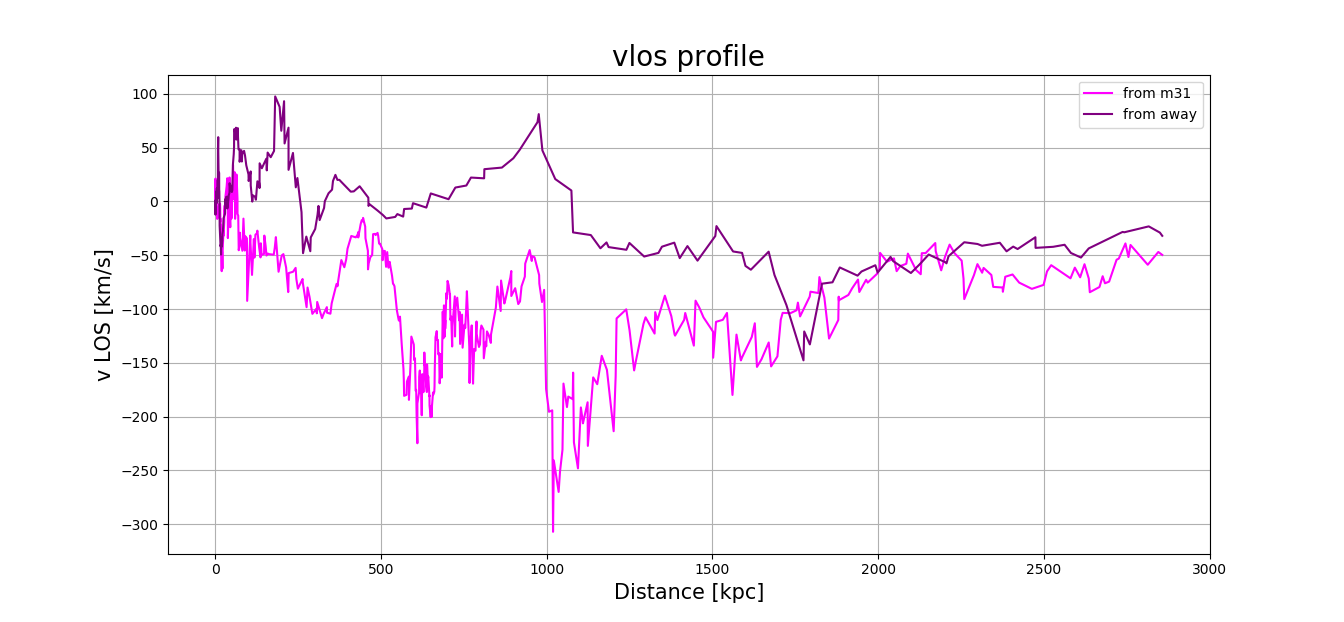
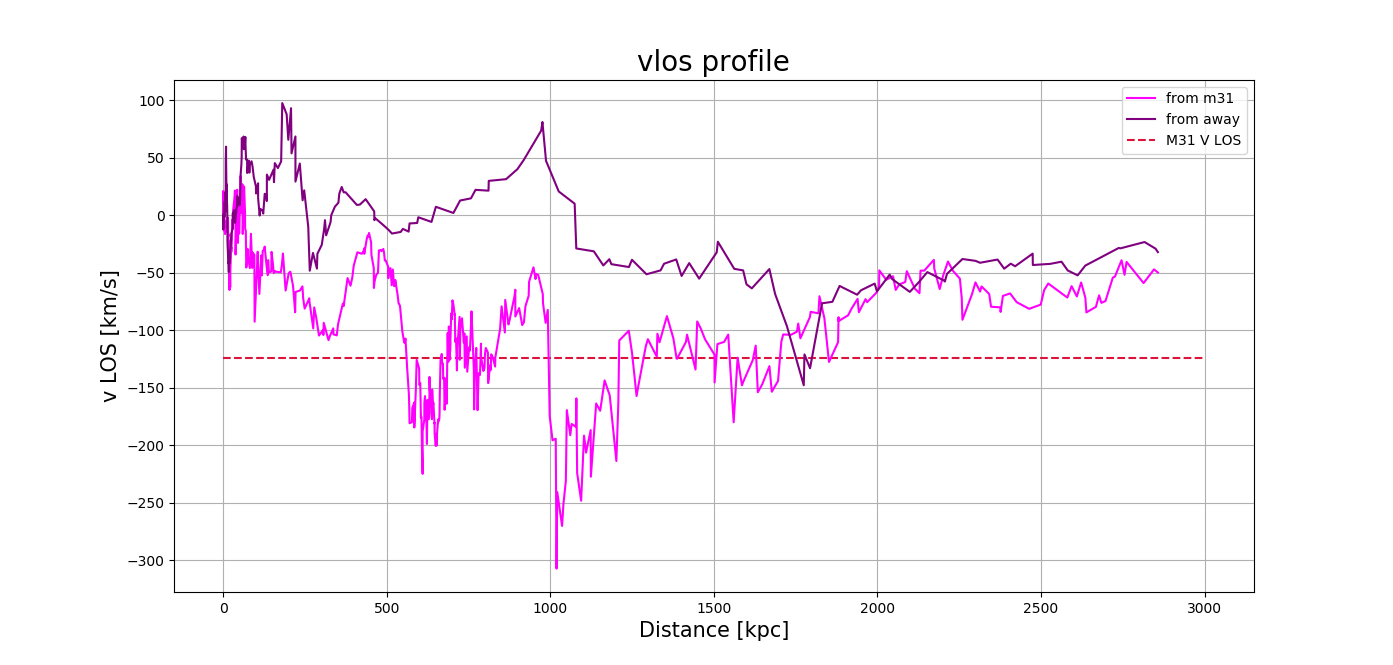
some files updates

diff --git a/yt_trident/ray_profiles_m31_and_away.py b/yt_trident/ray_profiles_m31_and_away.py
@@ -3,26 +3,33 @@ import matplotlib.pyplot as plt
 plt.ion()
 import pandas as pd
 import glob
-from tools import HUBBLE_2Mpc_LG, K_BOLTZMANN
+from numpy.linalg import norm
+from tools import HUBBLE_2Mpc_LG, K_BOLTZMANN, subhalo_center, subhalo_velocity, \
+                  get_sun_position_2Mpc_LG as sun
 from absorber_analysis import get_attribute_by_distance, get_ratio_by_distance
 
 
-ray_m31_filename = './rays_2Mpc_LG_to_mw_2000_wrt_mwcenter/ray_2000.000_0.698_4.115.h5'
-ray_away_filename = './rays_2Mpc_LG_to_mw_2000_wrt_mwcenter/ray_2000.000_1.036_1.314.h5'
+ray_m31_filename = './rays_2Mpc_LG_to_mw_2000_wrt_mwcenter_sun/ray_2000.000_0.698_4.115.h5'
+ray_away_filename = './rays_2Mpc_LG_to_mw_2000_wrt_mwcenter_sun/ray_2000.000_1.036_1.314.h5'
 
-abs_m31_filename = './absorbers_2Mpc_LG_to_mw_2000_wrt_mwcenter/abs_2000.000_0.698_4.115.txt'
-abs_away_filename = './absorbers_2Mpc_LG_to_mw_2000_wrt_mwcenter/abs_2000.000_1.036_1.314.txt'
+abs_m31_filename = './absorbers_2Mpc_LG_to_mw_2000_wrt_mwcenter_sun/abs_2000.000_0.698_4.115.txt'
+abs_away_filename = './absorbers_2Mpc_LG_to_mw_2000_wrt_mwcenter_sun/abs_2000.000_1.036_1.314.txt'
 
 df_m31 = pd.read_csv(abs_m31_filename, skiprows=1)
 df_away = pd.read_csv(abs_away_filename, skiprows=1)
 
+m31_direction = subhalo_center(0) - sun()
+m31_direction /= norm(m31_direction)
+
+# correcting for MW velocity
+m31_vlos = (subhalo_velocity(0) - subhalo_velocity(1)) @ (m31_direction)
 
 
 if __name__=='__main__':
 
     plt.figure()
-    r_m31, ratio_m31 = get_ratio_by_distance(df_m31, 'Si II 1260', 'Si III 1206')
-    r_away, ratio_away = get_ratio_by_distance(df_away, 'Si II 1260', 'Si III 1206')
+    r_m31, ratio_m31 = get_ratio_by_distance(df_m31, 'Si II 1193', 'Si III 1206')
+    r_away, ratio_away = get_ratio_by_distance(df_away, 'Si II 1193', 'Si III 1206')
     plt.semilogy(r_m31/HUBBLE_2Mpc_LG, ratio_m31, label = 'from m31')
     plt.semilogy(r_away/HUBBLE_2Mpc_LG, ratio_away, label = 'from away')
     plt.xlabel('Distance [kpc]', fontsize = 15)
@@ -33,8 +40,8 @@ if __name__=='__main__':
 
 
     plt.figure()
-    r_m31, T_m31 = get_attribute_by_distance(df_m31, 'C II 1036', 'T')
-    r_away, T_away = get_attribute_by_distance(df_away, 'C II 1036', 'T')
+    r_m31, T_m31 = get_attribute_by_distance(df_m31, df_m31['Line'].iloc[0], 'T')
+    r_away, T_away = get_attribute_by_distance(df_away, df_away['Line'].iloc[0], 'T')
     plt.semilogy(r_m31/HUBBLE_2Mpc_LG, T_m31, label = 'from m31', color = 'red')
     plt.semilogy(r_away/HUBBLE_2Mpc_LG, T_away, label = 'from away', color = 'crimson', ls = '--')
     plt.xlabel('Distance [kpc]', fontsize = 15)
@@ -44,8 +51,8 @@ if __name__=='__main__':
     plt.legend()
 
     plt.figure()
-    r_m31, p_m31 = get_attribute_by_distance(df_m31, 'C II 1036', 'p')
-    r_away, p_away = get_attribute_by_distance(df_away, 'C II 1036', 'p')
+    r_m31, p_m31 = get_attribute_by_distance(df_m31, df_m31['Line'].iloc[0], 'p')
+    r_away, p_away = get_attribute_by_distance(df_away, df_away['Line'].iloc[0], 'p')
     plt.semilogy(r_m31/HUBBLE_2Mpc_LG, p_m31/K_BOLTZMANN, label = 'from m31', color = 'blue')
     plt.semilogy(r_away/HUBBLE_2Mpc_LG, p_away/K_BOLTZMANN, label = 'from away', color = 'cyan')
     plt.xlabel('Distance [kpc]', fontsize = 15)
@@ -55,8 +62,8 @@ if __name__=='__main__':
     plt.legend()
 
     plt.figure()
-    r_m31, rho_m31 = get_attribute_by_distance(df_m31, 'C II 1036', 'rho')
-    r_away,rho_away = get_attribute_by_distance(df_away, 'C II 1036', 'rho')
+    r_m31, rho_m31 = get_attribute_by_distance(df_m31, df_m31['Line'].iloc[0], 'rho')
+    r_away,rho_away = get_attribute_by_distance(df_away, df_away['Line'].iloc[0], 'rho')
     plt.semilogy(r_m31/HUBBLE_2Mpc_LG, rho_m31, label = 'from m31', color = 'magenta')
     plt.semilogy(r_away/HUBBLE_2Mpc_LG, rho_away, label = 'from away', color = 'purple')
     plt.xlabel('Distance [kpc]', fontsize = 15)
@@ -71,6 +78,7 @@ if __name__=='__main__':
     r_away,vlos_away = get_attribute_by_distance(df_away, df_away['Line'].iloc[0], 'v_los')
     plt.plot(r_m31/HUBBLE_2Mpc_LG, vlos_m31, label = 'from m31', color = 'magenta')
     plt.plot(r_away/HUBBLE_2Mpc_LG, vlos_away, label = 'from away', color = 'purple')
+    plt.hlines(m31_vlos, 0, 3000, color = 'crimson', linestyles='dashed', label = 'M31 V LOS')
     plt.xlabel('Distance [kpc]', fontsize = 15)
     plt.ylabel('v LOS [km/s]', fontsize = 15)
     plt.title('vlos profile', fontsize = 20)
@@ -80,8 +88,8 @@ if __name__=='__main__':
     plt.figure()
     r_m31, NS3_m31 = get_attribute_by_distance(df_m31, 'Si III 1206', 'N')
     r_away, NS3_away = get_attribute_by_distance(df_away, 'Si III 1206', 'N')
-    r_m31, NS2_m31 = get_attribute_by_distance(df_m31, 'Si II 1260', 'N')
-    r_away, NS2_away = get_attribute_by_distance(df_away, 'Si II 1260', 'N')
+    r_m31, NS2_m31 = get_attribute_by_distance(df_m31, 'Si II 1193', 'N')
+    r_away, NS2_away = get_attribute_by_distance(df_away, 'Si II 1193', 'N')
     plt.subplot(121)
     plt.semilogy(r_m31/HUBBLE_2Mpc_LG, NS3_m31+1, label = 'Si III 1206\n from m31', color = 'purple')
     plt.semilogy(r_away/HUBBLE_2Mpc_LG, NS3_away+1, label = 'Si III 1206\n from away', color = 'violet', ls = '--')
@@ -92,8 +100,8 @@ if __name__=='__main__':
     plt.legend()
 
     plt.subplot(122)
-    plt.semilogy(r_m31/HUBBLE_2Mpc_LG, NS2_m31+1, label = 'Si II 1260\n from m31', color = 'red')
-    plt.semilogy(r_away/HUBBLE_2Mpc_LG, NS2_away+1, label = 'Si II 1260\n from away', color = 'coral', ls = '--')
+    plt.semilogy(r_m31/HUBBLE_2Mpc_LG, NS2_m31+1, label = 'Si II 1193\n from m31', color = 'red')
+    plt.semilogy(r_away/HUBBLE_2Mpc_LG, NS2_away+1, label = 'Si II 1193\n from away', color = 'coral', ls = '--')
     plt.xlabel('Distance [kpc]', fontsize = 15)
     plt.ylabel('$N$ [cm$^{-2}$]', fontsize = 15)
     plt.title('Column density profiles', fontsize = 20)

diff --git a/yt_trident/sampler_parallel.py b/yt_trident/sampler_parallel.py
@@ -13,32 +13,48 @@ from tools import get_sun_position_2Mpc_LG as sun
 
 
 number_of_cores = usable_cores()
-#pool = Pool(number_of_cores)
-pool = Pool(2)
+pool = Pool(number_of_cores)
+#pool = Pool()
 
-#rays_directory = './rays_2Mpc_LG_to_mw_2000_wrt_mwcenter/'
-rays_directory = './rays_2Mpc_LG_to_m31_and_away/'
+rays_directory = './rays_2Mpc_LG_to_mw_2000_wrt_mwcenter_sun/'
+#rays_directory = './rays_2Mpc_LG_to_m31_and_away_sun/'
 #rays_directory = './rays_test/'
-absorbers_directory = './absorbers_2Mpc_LG_to_mw_2000_wrt_mwcenter/'
+#absorbers_directory = './absorbers_2Mpc_LG_to_mw_2000_wrt_mwcenter_sun/'
+absorbers_directory = './absorbers_2Mpc_LG_from_subhalos_fuzzy/'
+
+rays_subhalo_directory = './rays_2Mpc_LG_from_subhalos/'
+rays_subhalo_fuzzy_directory = './rays_2Mpc_LG_from_subhalos_fuzzy/'
 
 def generate_absorbers_sample(rays_directory, absorbers_directory, pool):
 
     tasks =[(i,handle, rays_directory, absorbers_directory) for i, handle in \
             enumerate(glob.glob(rays_directory + 'ray*'))]
 
+    # hardcoding this now because absorber 0.858_6.031 won't generate
+    tasks.pop(57)
+
     pool.map(generate_one_to_map, tasks)
 
 
 
-def make_ray_sample_uniform(r_interval, number_of_sightlines, pool):
+def make_ray_sample_uniform(r_interval, number_of_sightlines, pool, sun=False):
 
     theta_interval, phi_interval = sphere_uniform_grid(number_of_sightlines)
 
     for r in r_interval:
 
-        tasks = [(i, number_of_sightlines, r, theta, phi, rays_directory) for \
-                i, (theta, phi) in enumerate(zip(theta_interval, phi_interval))]
-        pool.map(sample_one_to_map, tasks)
+
+        if sun:
+
+            tasks = [(r, theta, phi, sun(), rays_directory) for theta, phi in \
+            zip(theta_interval, phi_interval)]
+            pool.map(sample_one_to_map_any, tasks)
+
+        else:
+
+            tasks = [(i, number_of_sightlines, r, theta, phi, rays_directory) \
+            for i, (theta, phi) in enumerate(zip(theta_interval, phi_interval))]
+            pool.map(sample_one_to_map, tasks)
 
 
 def sample_m31_and_away(r_interval, rays_directory, pool, to_mw = True):
@@ -105,11 +121,12 @@ def generate_subhalo_fuzzy_samples(number_of_subhalos, ray_end,
 
 
 if __name__ == '__main__':
-    #generate_absorbers_sample(rays_directory, absorbers_directory, pool)
+    generate_absorbers_sample(rays_subhalo_fuzzy_directory, absorbers_directory, pool)
 
-    #make_ray_sample_uniform([2000], 10, pool)
-    #sample_m31_and_away(all_distances[1:], rays_directory, pool)
+    #make_ray_sample_uniform([2000], 500, pool)
+    #sample_m31_and_away(all_distances[1:], rays_directory, pool, to_mw=False)
     #generate_RN_fig1_distance_frames(all_distances[1:], pool)
 
-    #generate_subhalo_fuzzy_samples(3, sun(), './rays_test/', 3, pool)
-    generate_subhalo_samples(3, sun(), './rays_test/', pool)
+#    generate_subhalo_fuzzy_samples(15, sun(), rays_subhalo_fuzzy_directory,
+#                                 10, pool)
+    #generate_subhalo_samples(15, sun(), rays_subhalo_directory, pool)

diff --git a/yt_trident/plot_spectrum.py b/yt_trident/plot_spectrum.py
@@ -9,11 +9,7 @@ import matplotlib.pyplot as plt
 plt.ion()
 from scipy.signal import find_peaks
 
-<<<<<<< Updated upstream
-fname = './spectra_C_Si_2Mpc_LG/spec_990_0.70_4.19.txt'
-=======
-fname = './spec_990_0.70_4.19.txt'
->>>>>>> Stashed changes
+fname = './spectra_C_Si_2Mpc_LG/spec_0.020_0.70_4.19.txt'
 
 wavelength, tau, flux, flux_error = np.loadtxt(fname=fname, delimiter=' ',
                                     skiprows=1, unpack=True)
@@ -22,17 +18,18 @@ def plot_all():
 
     fig = plt.figure()
 
-    plt.plot(wavelength, flux)
-    plt.xlabel('Wavelength [A]')
-    plt.ylabel('Relative flux')
+    plt.plot(wavelength, flux, 'crimson')
+    plt.xlabel('Wavelength [A]', fontsize=15)
+    plt.ylabel('Relative flux',  fontsize=15)
+    plt.title('Transmittance',  fontsize=20)
     plt.grid(True)
-
-def plot_peaks():
-
-    plt.scatter(wavelength[peak_indices], flux[peak_indices], c='red')
-
-peak_indices, _ = find_peaks(flux, height=(None, 0), distance=50, threshold=0.1)
+#
+# def plot_peaks():
+#
+#     plt.scatter(wavelength[peak_indices], flux[peak_indices], c='red')
+#
+# peak_indices, _ = find_peaks(flux, height=(None, 0), distance=50, threshold=0.1)
 
 
 plot_all()
-plot_peaks()
+# plot_peaks()

diff --git a/yt_trident/R_N_fig1_to_M31_and_away.py b/yt_trident/R_N_fig1_to_M31_and_away.py
@@ -20,10 +20,10 @@ bandwidth = 6
 # spectra_directory = './rays_test/'
 # figs_directory = './rays_test/'
 
-rays_directory = './rays_2Mpc_LG_to_m31_and_away/'
+rays_directory = './rays_2Mpc_LG_to_m31_and_away_sun/'
 absorbers_directory = './absorbers_2Mpc_LG_to_mw_2000_wrt_mwcenter/'
-spectra_directory = './spectra_2Mpc_LG_to_m31_and_away/'
-figs_directory = './R_N_Fig1_by_distance_2MpcLG_new/'
+spectra_directory = './spectra_2Mpc_LG_to_m31_and_away_sun/'
+figs_directory = './R_N_Fig1_by_distance_2MpcLG_sun/'
 
 distances = np.linspace(10, 700, 100)
 distances_detail = np.linspace(1, 10, 50)
@@ -43,9 +43,13 @@ def sightlines_filenames(distance):
 
 
 
-    ray_to_m31_filename = 'ray_{:.3f}_0.698_4.189.h5'.format(distance)
+    # ray_to_m31_filename = 'ray_{:.3f}_0.698_4.189.h5'.format(distance)
+    #
+    # ray_away_filename = 'ray_{:.3f}_1.047_1.396.h5'.format(distance)
 
-    ray_away_filename = 'ray_{:.3f}_1.047_1.396.h5'.format(distance)
+    ray_to_m31_filename = 'ray_{:.3f}_0.70_4.19.h5'.format(distance)
+
+    ray_away_filename = 'ray_{:.3f}_1.05_1.40.h5'.format(distance)
 
     # when using 'distances'
     #ray_to_m31_filename = 'ray_{:.0f}_0.70_4.19.h5'.format(distance)

diff --git a/yt_trident/tools.py b/yt_trident/tools.py
@@ -146,6 +146,19 @@ def subhalo_center(subhalo_number, subfind_path='../../2Mpc_LG',
     return center
 
 
+def subhalo_velocity(subhalo_number, subfind_path='../../2Mpc_LG',
+                          snap_num=135):
+    """
+    Finds and returns subhalo velocity for
+    the specified subhalo_number.
+    """
+
+    cat = SubfindCatalogue(subfind_path, snap_num)
+    vel = cat.subhalo[subhalo_number].velocity
+
+    return vel
+
+
 def subhalo_virial_radius(subhalo_number, subfind_path='../../2Mpc_LG',
                           snap_num=135):
     """
